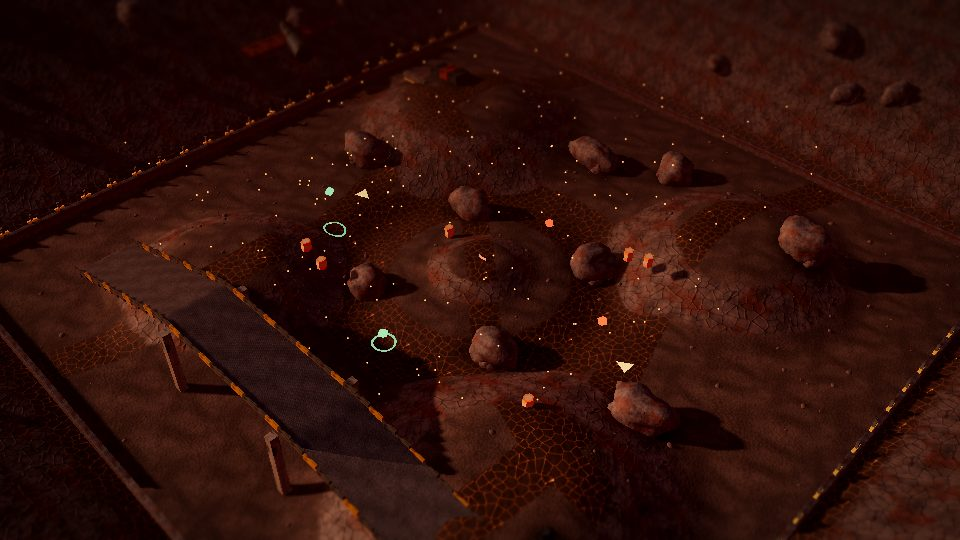
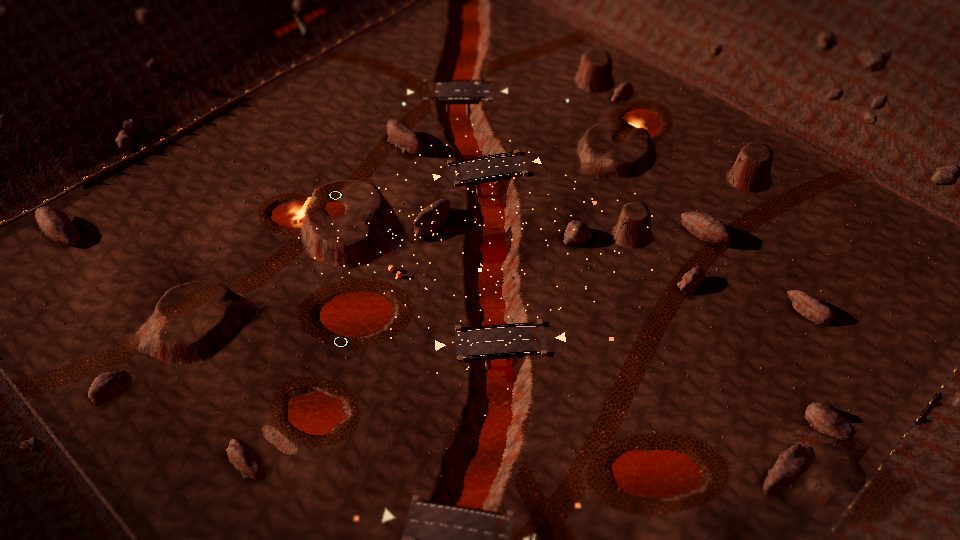
Regenerate map-select previews for the 200 m arenas
Claude-Session: https://claude.ai/code/session_01CQuBPP2YhEir8auLZDwnvK

diff --git a/src/main.ts b/src/main.ts
@@ -381,7 +381,8 @@ resize();const cameraFocus=player.mesh.position.clone();
 // Local development hooks for scripted screenshots; never active on the deployed site.
 if(typeof location!=='undefined'&&location.hostname==='localhost'){(globalThis as any).__player=player;(globalThis as any).__cars=cars;(globalThis as any).__skill=activateSkill;(globalThis as any).__state=skillOf;(globalThis as any).__fx=(x:number,z:number,n:number)=>burst(new THREE.Vector3(x,terrainHeight(x,z)+.8,z),n);
  // Dev-only aerial camera used by scripts/map-previews.cjs to render the arena cards in the deploy menu.
- (globalThis as any).__aerial=(style:number,yaw=.78,distance=118,pitch=.72)=>{selectedArena=style;buildArena();cars.forEach(c=>c.mesh.visible=false);overlay.style.display='none';aerial={yaw,distance,pitch};};}
+ (globalThis as any).__aerial=(style:number,yaw=.78,distance=118,pitch=.72)=>{selectedArena=style;buildArena();scene.fog=null;// the whole 200 m arena has to read from the air
+ cars.forEach(c=>c.mesh.visible=false);overlay.style.display='none';aerial={yaw,distance,pitch};};}
 const cameraOffset=new THREE.Vector3(Math.cos(CAMERA_PITCH)*Math.SQRT1_2,Math.sin(CAMERA_PITCH),Math.cos(CAMERA_PITCH)*Math.SQRT1_2).multiplyScalar(CAMERA_DISTANCE);camera.position.copy(player.mesh.position).add(cameraOffset);camera.lookAt(player.mesh.position);
 // Visual-only motion layered on the simulated car: wheels spin and steer, the sprung body leans into corners,
 // squats under acceleration, rocks back from its own gun and from hits, and the tail steps out in hard turns.
